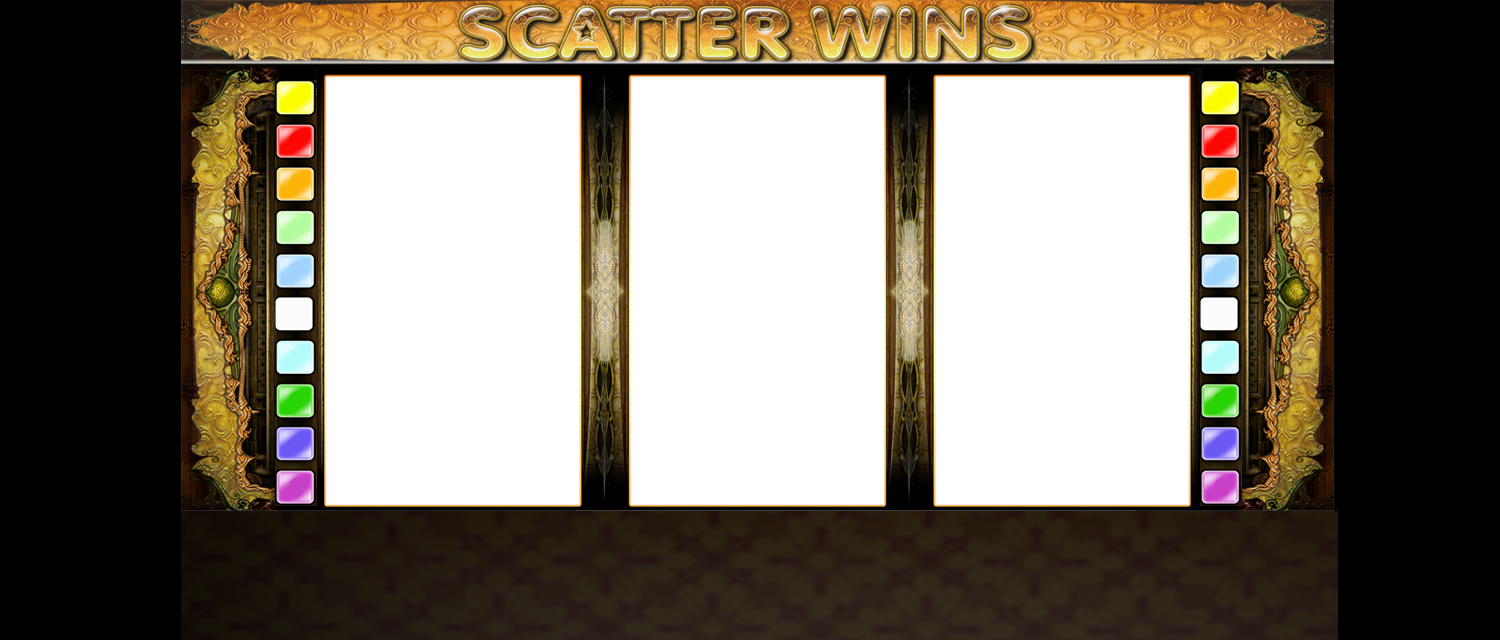
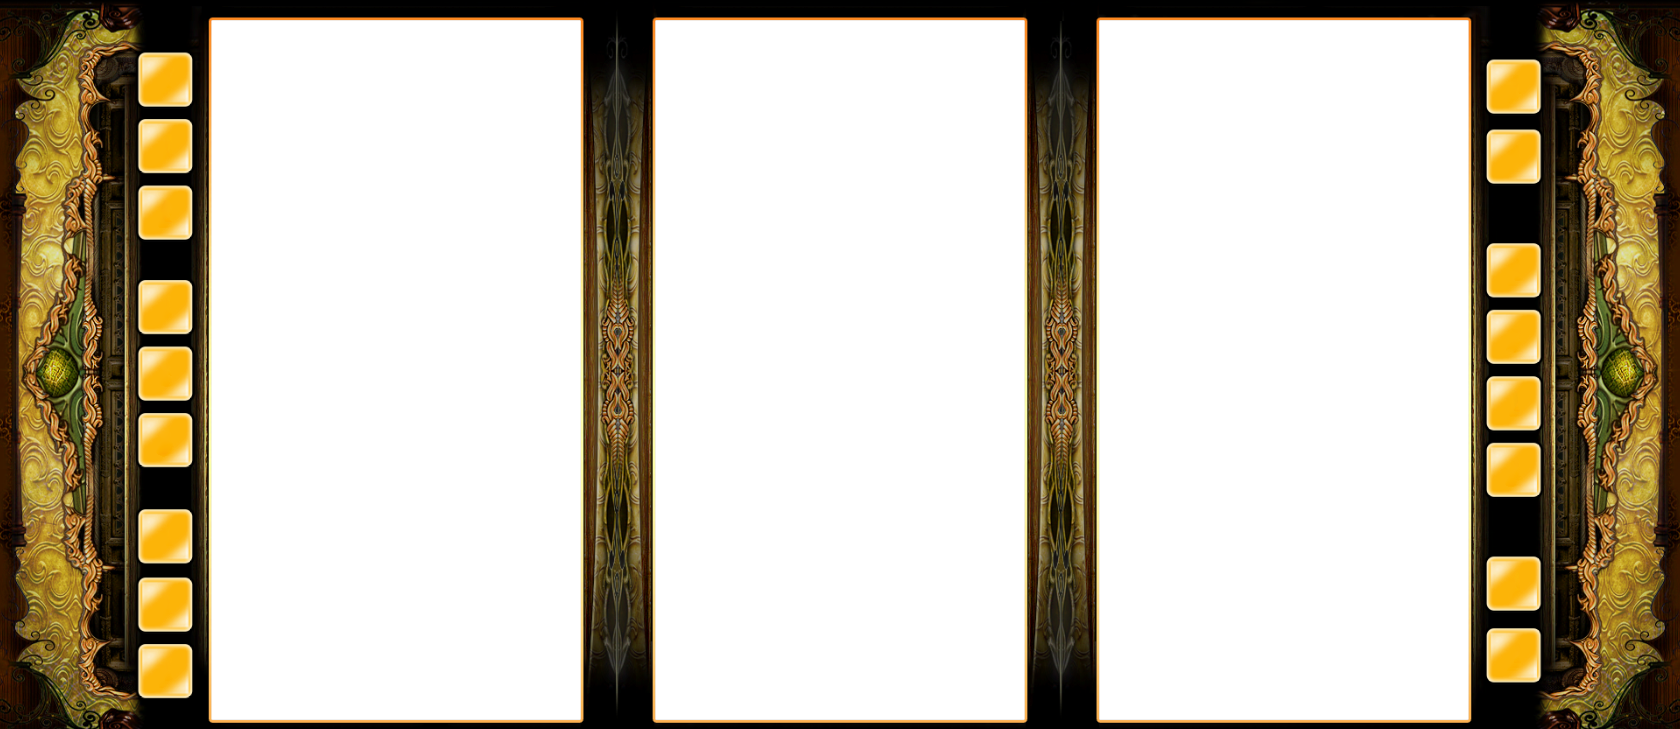
refactoring

diff --git a/resources/assets/sass/divslot/games/scatterwins.scss b/resources/assets/sass/divslot/games/scatterwins.scss
@@ -1,11 +1,5 @@
-@import "../game_types/with_borders";
+@import "../game_types/without_borders";
 
-
-.alert .content {
-    background: url('../img/games/scatterwins/images/freeSpinBg.png');
-    width: 541px;
-    height: 497px;
-}
 .main {
     background: url('../img/games/scatterwins/game_bg.png') center center;
 }
@@ -15,8 +9,8 @@
 
     background-size: 100% 100%;
     font-size: 32px;
-    width: 53px;
-    height: 53px;
+    width: 54px;
+    height: 54px;
     border-radius: 5px;
     box-shadow: 0px 0px 5px 0px rgba(0,0,0,0.75);
     cursor: pointer;
@@ -30,7 +24,12 @@
 }
 
 .header {
-    // background: url('../img/games/scatterwins/header.png');
+    background: url('../img/games/scatterwins/header.png');
+}
+.alert .content {
+    background: url("../img/games/scatterwins/freeSpinBg.png");
+    width: 1184px;
+    height: 626px;
 }
 .gamble {
     background: url('../img/games/scatterwins/gamble/gamble_bg.png');

diff --git a/resources/assets/js/game_choose/config.js b/resources/assets/js/game_choose/config.js
@@ -1,7 +1,7 @@
 // const appUrl = "admin.chcgreen.org"
 const appUrl = "php-slots"
-export const login = `http://${appUrl}/login`
-export const logout = `http://${appUrl}/logout`
-export const playerInfo = `http://${appUrl}/getplayerinfo`
-export const history = `http://${appUrl}/gethistory`
-export const isPlayerAuthed = `http://${appUrl}/isplayerauthed`
+export const login = `/login`
+export const logout = `/logout`
+export const playerInfo = `/getplayerinfo`
+export const history = `/gethistory`
+export const isPlayerAuthed = `/isplayerauthed`
